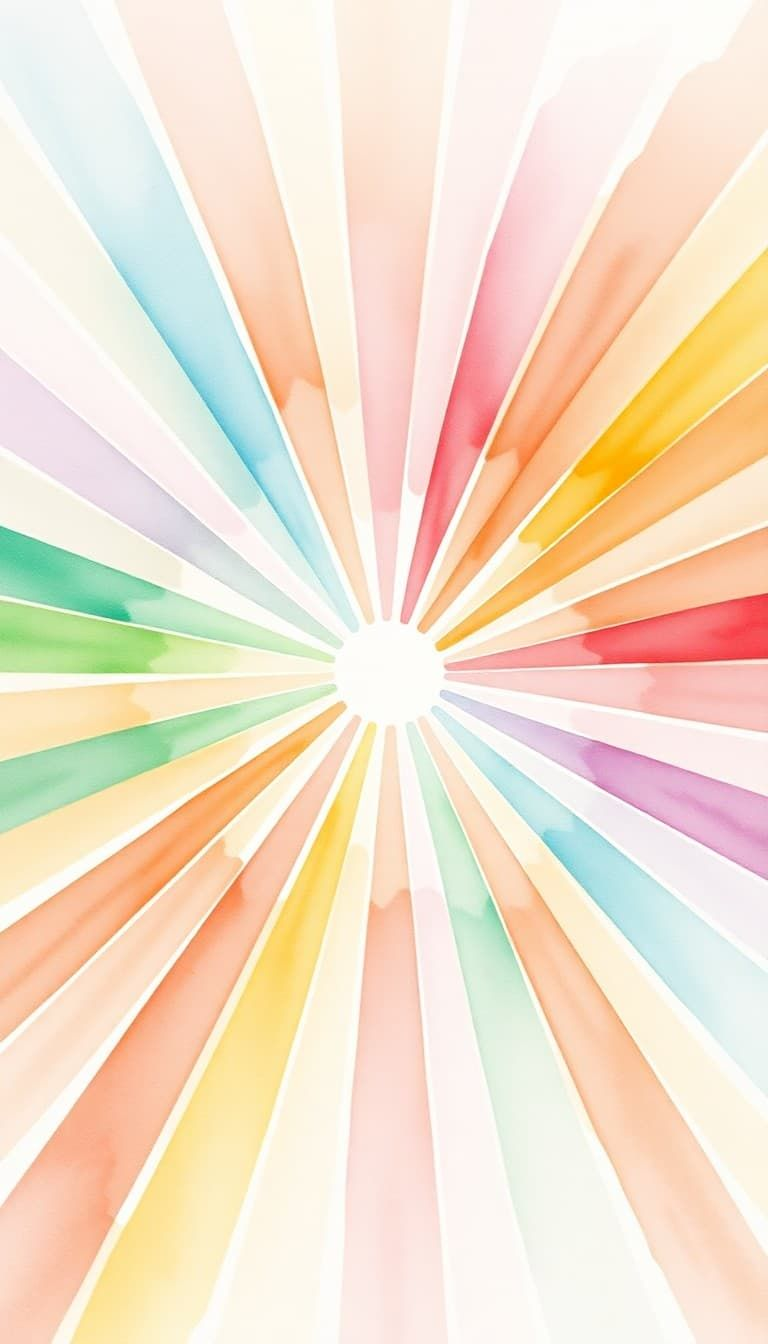
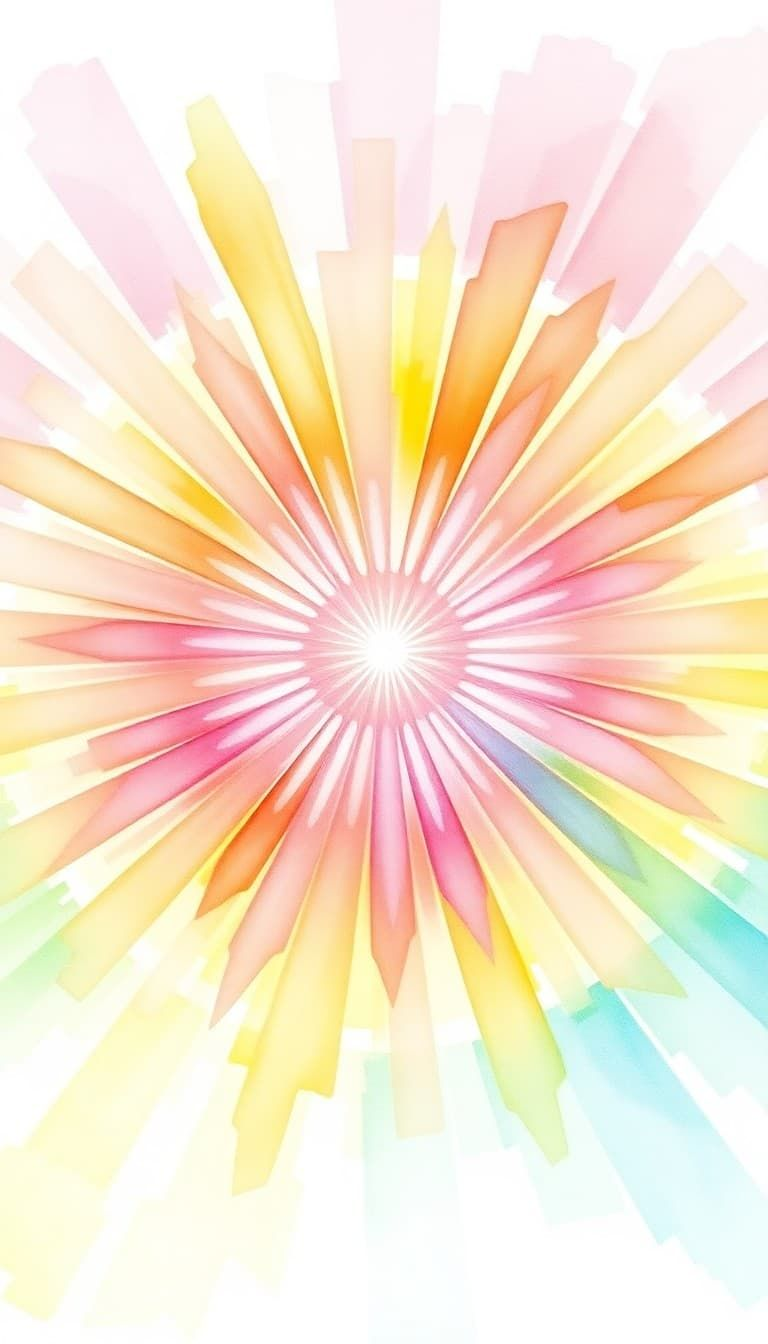
Add grammatical particle images and improve FlashCard visibility
Image Generation:
- Generated 2 new images for grammatical particles (אֵת, וְאֵת)
  - אֵת: Flowing ribbon in pastel colors (directional marker)
  - וְאֵת: Rainbow circle (conjunction + marker)
- Completed all 7 Genesis 1:1 word images
- Updated image generation prompts with particle visual concepts
- Total: 7 images → 65 database records updated

Visual Prompts Added:
- Particle (목적격 표지): Sophisticated flowing arrows/ribbons
- Conjunction (접속사): Connection composition with merging elements
- Bright diverse pastel palette (baby pink, sky blue, mint, lavender)
- Museum-quality watercolor style maintained

FlashCard UI Enhancement:
- Reduced bottom overlay opacity: 20% → 10% (bg-black/20 → bg-black/10)
- Improved grammar category gradient visibility
- Better color prominence while maintaining text legibility
- Applied to both front and back card faces

Database Integration:
- Uploaded 7 images to Supabase Storage (hebrew-icons bucket)
- Auto-updated 65 word records with icon URLs
  - 하나님 (אלהים): 44 records
  - 땅 (הארץ): 10 records
  - 하늘들 (השמים): 5 records
  - 그리고 ~을/를 (ואת): 2 records
  - 창조하셨다 (ברא): 2 records
  - 태초에 (בראשית): 1 record
  - ~을/를 (את): 1 record

Analysis Tools:
- scripts/checkDuplicateMeanings.ts: Analyze meaning duplication
  - 760 unique meanings, 48 (6%) potential conflicts
  - Mostly nikud/hyphen variations (same word)
  - Genesis 1:1 words all safe (unique mappings)

Image Compression:
- Re-compressed all word images with Sharp (quality 75)
[…]

diff --git a/src/components/shared/FlashCard.tsx b/src/components/shared/FlashCard.tsx
@@ -120,28 +120,30 @@ export default function FlashCard({
             />
           </div>
 
-          {/* 하단 컨텐츠 영역 (20% 높이) - 품사 색상 독립 */}
-          <div className={`relative w-full h-[20%] flex flex-col items-center justify-center px-4 py-2 ${
-            darkMode ? 'bg-gray-900' : 'bg-white'
-          }`}>
+          {/* 하단 컨텐츠 영역 (20% 높이) - 투명 + 반투명 오버레이 */}
+          <div className="relative w-full h-[20%] flex flex-col items-center justify-center px-4 py-2 bg-black/10 backdrop-blur-sm">
+            {/* 히브리어 원문 */}
+            <div
+              className="text-xl sm:text-2xl font-bold mb-1 text-white drop-shadow-lg"
+              dir="rtl"
+            >
+              {word.hebrew}
+            </div>
+
             {/* 알파벳 읽기 - 동적 폰트 크기, 멀티라인 */}
             {word.letters && (
               <div
                 className={`${
-                  word.letters.length <= 15 ? 'text-base' :
-                  word.letters.length <= 25 ? 'text-sm' :
-                  word.letters.length <= 40 ? 'text-xs' : 'text-[11px]'
-                } font-semibold mb-1 px-2 py-0.5 rounded-md w-full text-center leading-tight ${
-                  darkMode
-                    ? 'text-emerald-300'
-                    : 'text-emerald-700'
-                }`}
+                  word.letters.length <= 15 ? 'text-xs' :
+                  word.letters.length <= 25 ? 'text-[11px]' :
+                  word.letters.length <= 40 ? 'text-[10px]' : 'text-[9px]'
+                } font-medium mb-1 px-2 py-0.5 rounded-md w-full text-center leading-tight text-emerald-200 drop-shadow`}
                 dir="rtl"
                 style={{
                   wordBreak: 'break-word',
                   overflowWrap: 'break-word',
                   whiteSpace: 'normal',
-                  maxHeight: '2.5rem',
+                  maxHeight: '1.5rem',
                   overflow: 'visible'
                 }}
               >
@@ -152,11 +154,7 @@ export default function FlashCard({
             {/* 발음 */}
             {word.korean && (
               <div className="flex items-center gap-2 mb-1">
-                <div
-                  className={`text-sm font-bold ${
-                    darkMode ? 'text-purple-300' : 'text-purple-700'
-                  }`}
-                >
+                <div className="text-sm font-bold text-purple-200 drop-shadow">
                   [{word.korean}]
                 </div>
                 <button
@@ -164,11 +162,7 @@ export default function FlashCard({
                     e.stopPropagation();
                     speakHebrew(word.hebrew);
                   }}
-                  className={`p-1.5 rounded-lg ${
-                    darkMode
-                      ? 'bg-purple-600 hover:bg-purple-700'
-                      : 'bg-purple-500 hover:bg-purple-600'
-                  } text-white transition-all`}
+                  className="p-1.5 rounded-lg bg-purple-600/80 hover:bg-purple-700 text-white transition-all backdrop-blur-sm"
                   aria-label="발음 듣기"
                 >
                   <Volume2 className="w-4 h-4" />
@@ -177,11 +171,7 @@ export default function FlashCard({
             )}
 
             {/* 탭 안내 */}
-            <div
-              className={`text-xs ${
-                darkMode ? 'text-gray-400' : 'text-gray-600'
-              }`}
-            >
+            <div className="text-xs text-white/70 drop-shadow">
               더블 탭하여 뜻 보기
             </div>
           </div>
@@ -214,25 +204,25 @@ export default function FlashCard({
             />
           </div>
 
-          {/* 하단 뜻 영역 (30% 높이) - 품사 색상 독립 */}
-          <div className={`relative w-full h-[30%] flex flex-col items-center justify-center px-6 py-4 ${
-            darkMode ? 'bg-gray-900' : 'bg-white'
-          }`}>
-            {/* 한국어 뜻 */}
+          {/* 하단 뜻 영역 (30% 높이) - 투명 + 반투명 오버레이 */}
+          <div className="relative w-full h-[30%] flex flex-col items-center justify-center px-6 py-4 bg-black/10 backdrop-blur-sm">
+            {/* 히브리어 원문 */}
             <div
-              className={`text-2xl sm:text-3xl font-bold mb-2 text-center ${
-                darkMode ? 'text-blue-100' : 'text-blue-900'
-              }`}
+              className="text-xl sm:text-2xl font-bold mb-1 text-white drop-shadow-lg"
+              dir="rtl"
             >
+              {word.hebrew}
+            </div>
+
+            {/* 한국어 뜻 */}
+            <div className="text-2xl sm:text-3xl font-bold mb-2 text-center text-white drop-shadow-lg">
               {word.meaning}
             </div>
 
             {/* 어근 */}
             {word.root && (
               <div
-                className={`text-sm ${
-                  darkMode ? 'text-amber-300' : 'text-amber-700'
-                }`}
+                className="text-sm text-amber-200 drop-shadow"
                 dir="rtl"
               >
                 🌱 {word.root}
@@ -240,11 +230,7 @@ export default function FlashCard({
             )}
 
             {/* 구절 참조 */}
-            <div
-              className={`text-xs mt-2 ${
-                darkMode ? 'text-gray-400' : 'text-gray-600'
-              }`}
-            >
+            <div className="text-xs mt-2 text-white/70 drop-shadow">
               📖 {reference}
             </div>
           </div>

diff --git a/scripts/checkDuplicateMeanings.ts b/scripts/checkDuplicateMeanings.ts
@@ -1,0 +1,85 @@
+#!/usr/bin/env tsx
+
+/**
+ * 같은 의미(meaning)를 가진 서로 다른 히브리어 단어 찾기
+ * → 이미지 중복 사용 확률 분석
+ */
+
+import { createClient } from '@supabase/supabase-js'
+import { config } from 'dotenv'
+
+config({ path: '.env.local' })
+
+const supabase = createClient(
+  process.env.VITE_SUPABASE_URL!,
+  process.env.SUPABASE_SERVICE_ROLE_KEY!
+)
+
+async function checkDuplicateMeanings() {
+  console.log('━━━━━━━━━━━━━━━━━━━━━━━━━━━━━━━━━━━━━━━━')
+  console.log('📊 같은 의미(meaning)를 가진 서로 다른 히브리어 단어 분석')
+  console.log('━━━━━━━━━━━━━━━━━━━━━━━━━━━━━━━━━━━━━━━━\n')
+
+  // 모든 단어 가져오기
+  const { data, error } = await supabase
+    .from('words')
+    .select('meaning, hebrew')
+    .not('meaning', 'is', null)
+    .order('meaning')
+
+  if (error) {
+    console.error('❌ 오류:', error)
+    return
+  }
+
+  // 의미별로 그룹화
+  const meaningGroups: Record<string, Set<string>> = {}
+  data.forEach(row => {
+    if (!meaningGroups[row.meaning]) {
+      meaningGroups[row.meaning] = new Set()
+    }
+    meaningGroups[row.meaning].add(row.hebrew)
+  })
+
+  // 같은 의미에 2개 이상의 다른 히브리어가 있는 경우
+  const conflicts = Object.entries(meaningGroups)
+    .filter(([meaning, hebrewSet]) => hebrewSet.size > 1)
+    .map(([meaning, hebrewSet]) => ({
+      meaning,
+      hebrews: Array.from(hebrewSet),
+      count: hebrewSet.size
+    }))
+    .sort((a, b) => b.count - a.count) // 많은 순으로 정렬
+
+  const totalMeanings = Object.keys(meaningGroups).length
+  const conflictRate = Math.round(conflicts.length / totalMeanings * 100)
+
+  console.log(`📈 통계:`)
+  console.log(`   전체 고유 의미(meaning): ${totalMeanings}개`)
+  console.log(`   충돌 가능 의미: ${conflicts.length}개 (${conflictRate}%)`)
+  console.log(`   안전한 의미: ${totalMeanings - conflicts.length}개\n`)
+
+  if (conflicts.length === 0) {
+    console.log('✅ 모든 의미가 고유한 히브리어 단어와 1:1 매칭됩니다!')
+    console.log('   이미지 중복 사용 문제 없음\n')
+  } else {
+    console.log(`⚠  주의: ${conflicts.length}개 의미가 여러 히브리어 단어를 공유합니다\n`)
+    console.log('━━━━━━━━━━━━━━━━━━━━━━━━━━━━━━━━━━━━━━━━')
+    console.log('충돌 상위 20개:\n')
+
+    conflicts.slice(0, 20).forEach((c, i) => {
+      console.log(`${i + 1}. "${c.meaning}" → ${c.count}개 히브리어`)
+      c.hebrews.forEach(h => console.log(`   - ${h}`))
+      console.log()
+    })
+  }
+
+  console.log('━━━━━━━━━━━━━━━━━━━━━━━━━━━━━━━━━━━━━━━━')
+  console.log('💡 권장 해결책:')
+  console.log('   1. hebrew + meaning 조합으로 매칭 (가장 정확)')
+  console.log('   2. 주요 단어만 이미지 생성 (중복 최소화)')
+  console.log('   3. 의미 세분화 (예: "하나님" → "하나님(엘로힘)", "하나님(여호와)")')
+  console.log('━━━━━━━━━━━━━━━━━━━━━━━━━━━━━━━━━━━━━━━━\n')
+}
+
+checkDuplicateMeanings()

diff --git a/scripts/images/generateGenesis1_1.ts b/scripts/images/generateGenesis1_1.ts
@@ -58,6 +58,24 @@ const genesis1_1Words: WordInfo[] = [
     grammar: '명사 (단수형 + 정관사)',
     context: '물리적 지구와 인간이 살아가는 땅. 하늘과 대조되는 물질적 영역이자 약속의 땅'
   },
+  {
+    hebrew: 'אֵת',
+    meaning: '~을/를 (목적격 표지)',
+    korean: '에트',
+    ipa: 'ʔeːt',
+    root: 'את',
+    grammar: '조사 (목적격 표지)',
+    context: '히브리어의 독특한 문법 요소로, 명확한 목적어 앞에 위치하여 문장 구조를 명확히 함'
+  },
+  {
+    hebrew: 'וְאֵת',
+    meaning: '그리고 ~을/를',
+    korean: '베에트',
+    ipa: 'veʔeːt',
+    root: 'ו + את',
+    grammar: '접속사 + 목적격 표지',
+    context: '접속사 ו(그리고)와 목적격 표지 את의 결합. 두 번째 목적어를 연결하며 창조의 완전성을 나타냄'
+  },
 ]
 
 console.log(`
@@ -72,15 +90,17 @@ console.log(`
 1. בְּרֵאשִׁית (베레쉬트) - 시작, 태초
 2. בָּרָא (바라) - 창조하다
 3. אֱלֹהִים (엘로힘) - 하나님
-4. הַשָּׁמַיִם (하샤마임) - 하늘
-5. הָאָרֶץ (하아레츠) - 땅
+4. אֵת (에트) - 목적격 조사
+5. הַשָּׁמַיִם (하샤마임) - 하늘
+6. וְאֵת (베에트) - 접속사 + 목적격 조사
+7. הָאָרֶץ (하아레츠) - 땅
 
 설정:
 - 비율: 9:16 (플래시카드 모바일)
 - 형식: JPG
 - 품질: 90
-- 예상 비용: $0.015 (약 20원)
-- 예상 시간: 약 30초 (각 5-7초)
+- 예상 비용: $0.021 (약 28원)
+- 예상 시간: 약 40초 (각 5-7초)
 
 ━━━━━━━━━━━━━━━━━━━━━━━━━━━━━━━━━━━━━━━━━━━━━━━
 `)

diff --git a/scripts/images/generateImagePrompt.ts b/scripts/images/generateImagePrompt.ts
@@ -244,6 +244,32 @@ Refined abstract symbolism of divine expression
 Gallery-quality metaphysical artistry`
   }
 
+  // 목적격 조사 (אֵת)
+  if (meaningLower.includes('목적격') || meaningLower.includes('조사') || meaning === '~을/를 (목적격 표지)') {
+    return `Sophisticated flowing arrow composition - directional movement
+Professional watercolor: DIVERSE GENTLE COLORS - soft blue, mint, lavender,
+peach, cream flowing from left to right
+Masterful curved arrow or ribbon shape suggesting direction and flow
+Elegant movement lines with soft gradients
+Advanced color transitions creating sense of purposeful direction
+Poetic visual metaphor for grammatical connection
+Refined abstract representation of linking and directing
+Museum-quality minimalist artistry with chromatic flow`
+  }
+
+  // 접속사 (וְאֵת - 그리고)
+  if (meaningLower.includes('접속사') || meaningLower.includes('그리고') || meaning.includes('그리고')) {
+    return `Sophisticated connection composition - two elements joining
+Professional watercolor: DIVERSE BRIGHT COLORS - baby pink, sky blue,
+sunny yellow, mint green connecting and intertwining
+Masterful flowing ribbons or curves meeting and merging
+Elegant bridge-like forms with harmonious color blending
+Advanced layering showing unity and addition
+Poetic visual metaphor for connection and continuation
+Refined abstract representation of joining forces
+Gallery-quality artistry celebrating union through diverse colors`
+  }
+
   // 기본 설명 (특정 키워드 매칭 안될 경우)
   return `Sophisticated minimalist composition representing ${meaning}
 Professional watercolor: refined essential forms

diff --git a/scripts/images/uploadWordImages.ts b/scripts/images/uploadWordImages.ts
@@ -28,7 +28,9 @@ const hebrewToMeaning: Record<string, WordMapping> = {
   'בראשית.jpg': { meaning: '태초에, 처음에', english: 'beginning' },
   'ברא.jpg': { meaning: '창조하셨다', english: 'create' },
   'אלהים.jpg': { meaning: '하나님', english: 'god' },
+  'את.jpg': { meaning: '~을/를 (목적격 표지)', english: 'particle_et' },
   'השמים.jpg': { meaning: '하늘들', english: 'heaven' },
+  'ואת.jpg': { meaning: '그리고 ~을/를', english: 'conjunction_veet' },
   'הארץ.jpg': { meaning: '땅', english: 'earth' }
 }
 
